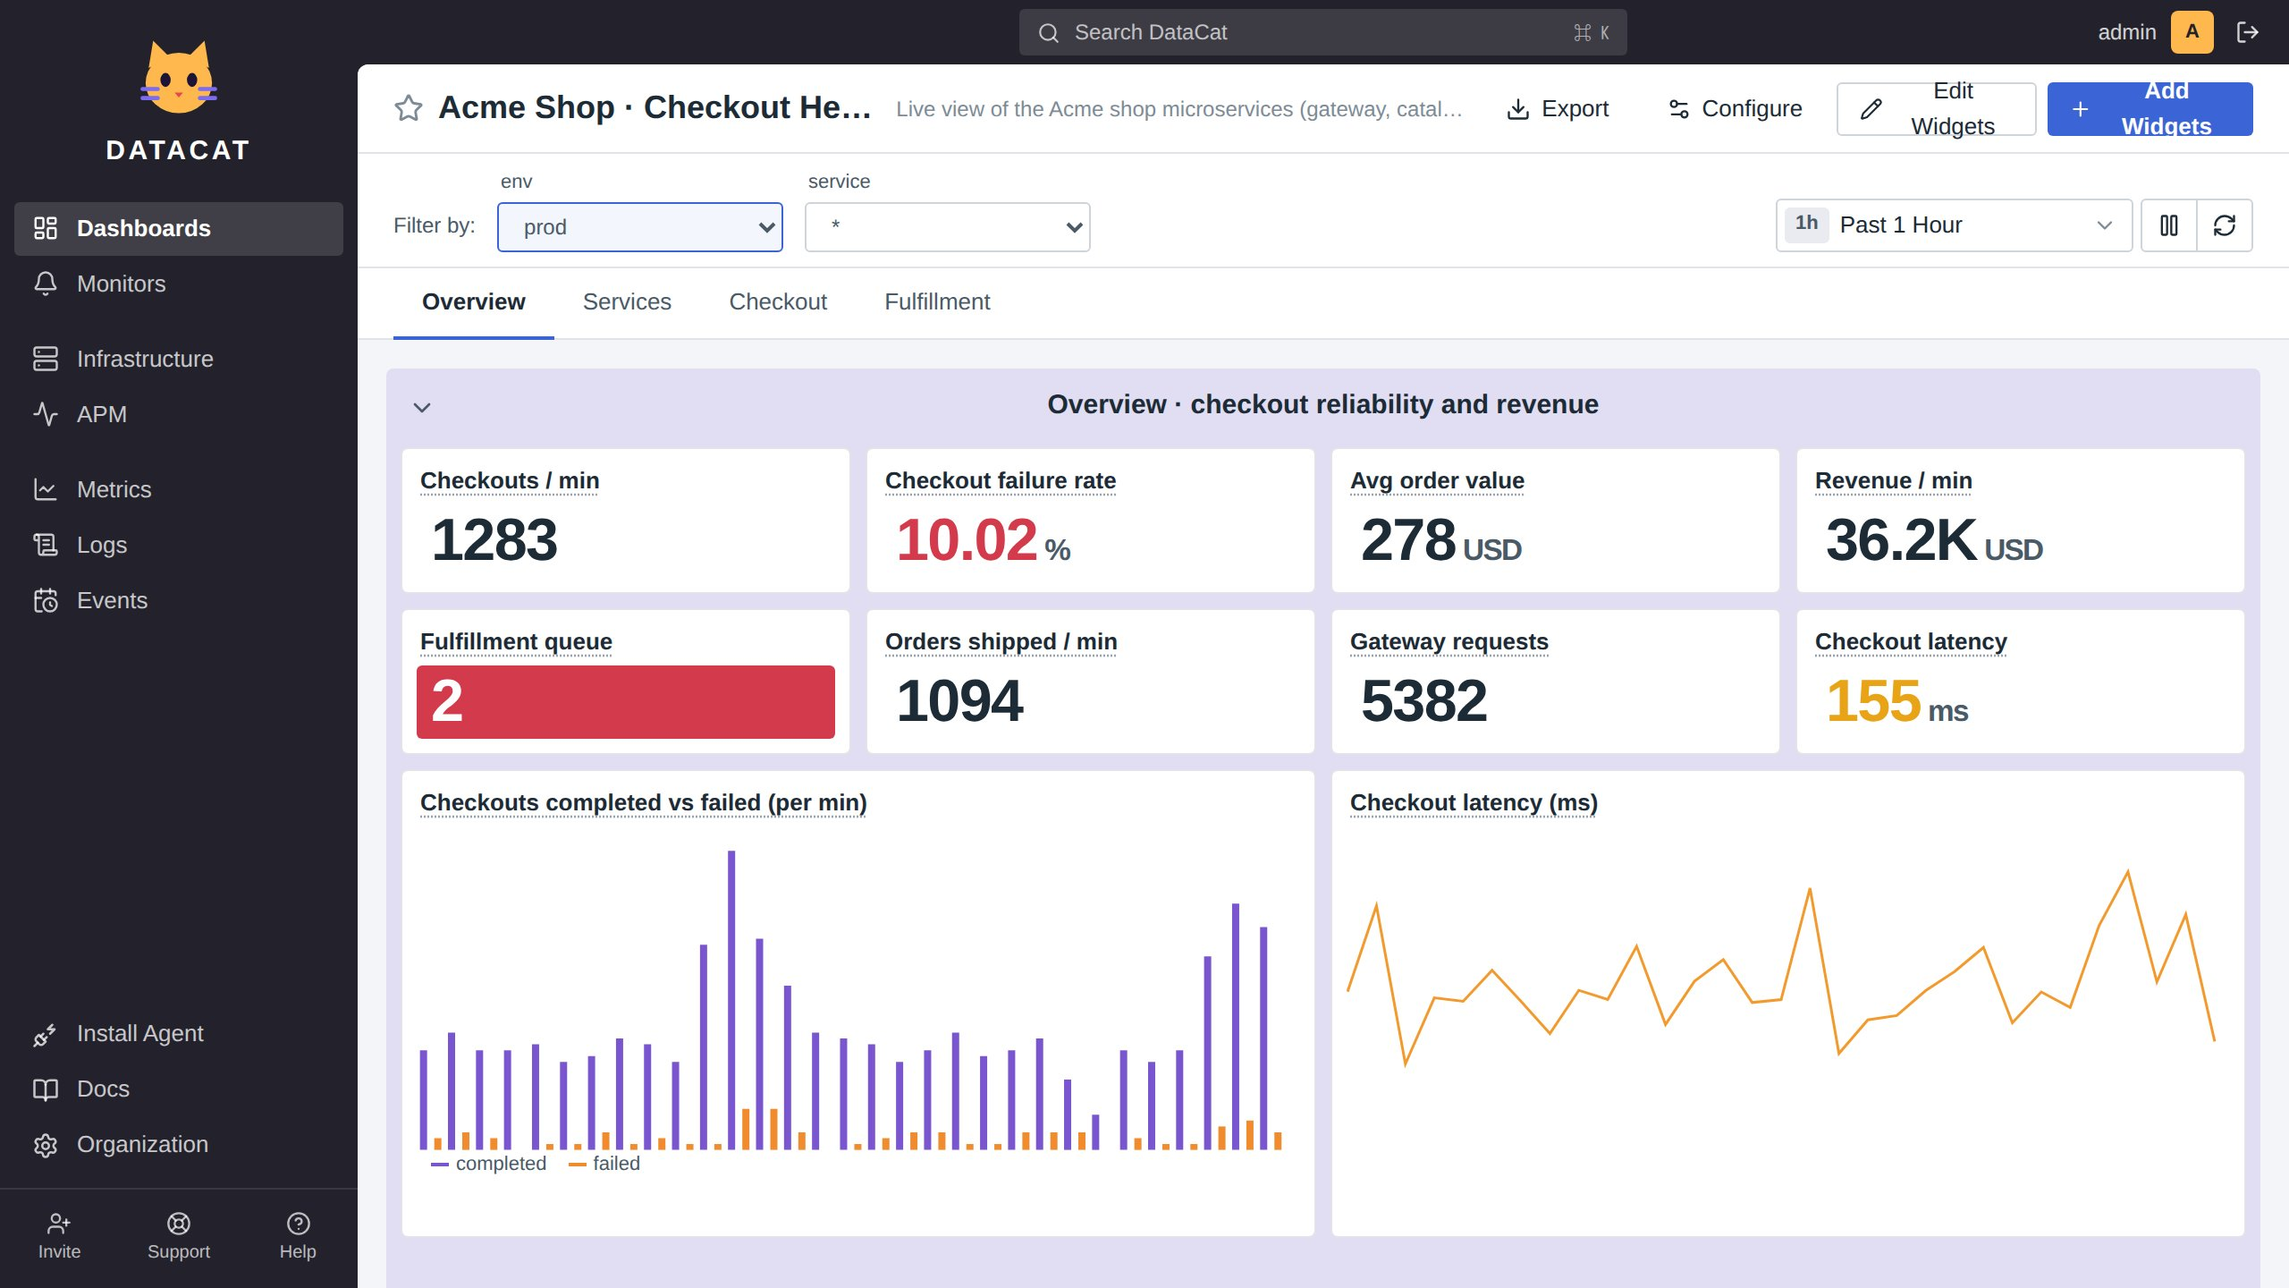
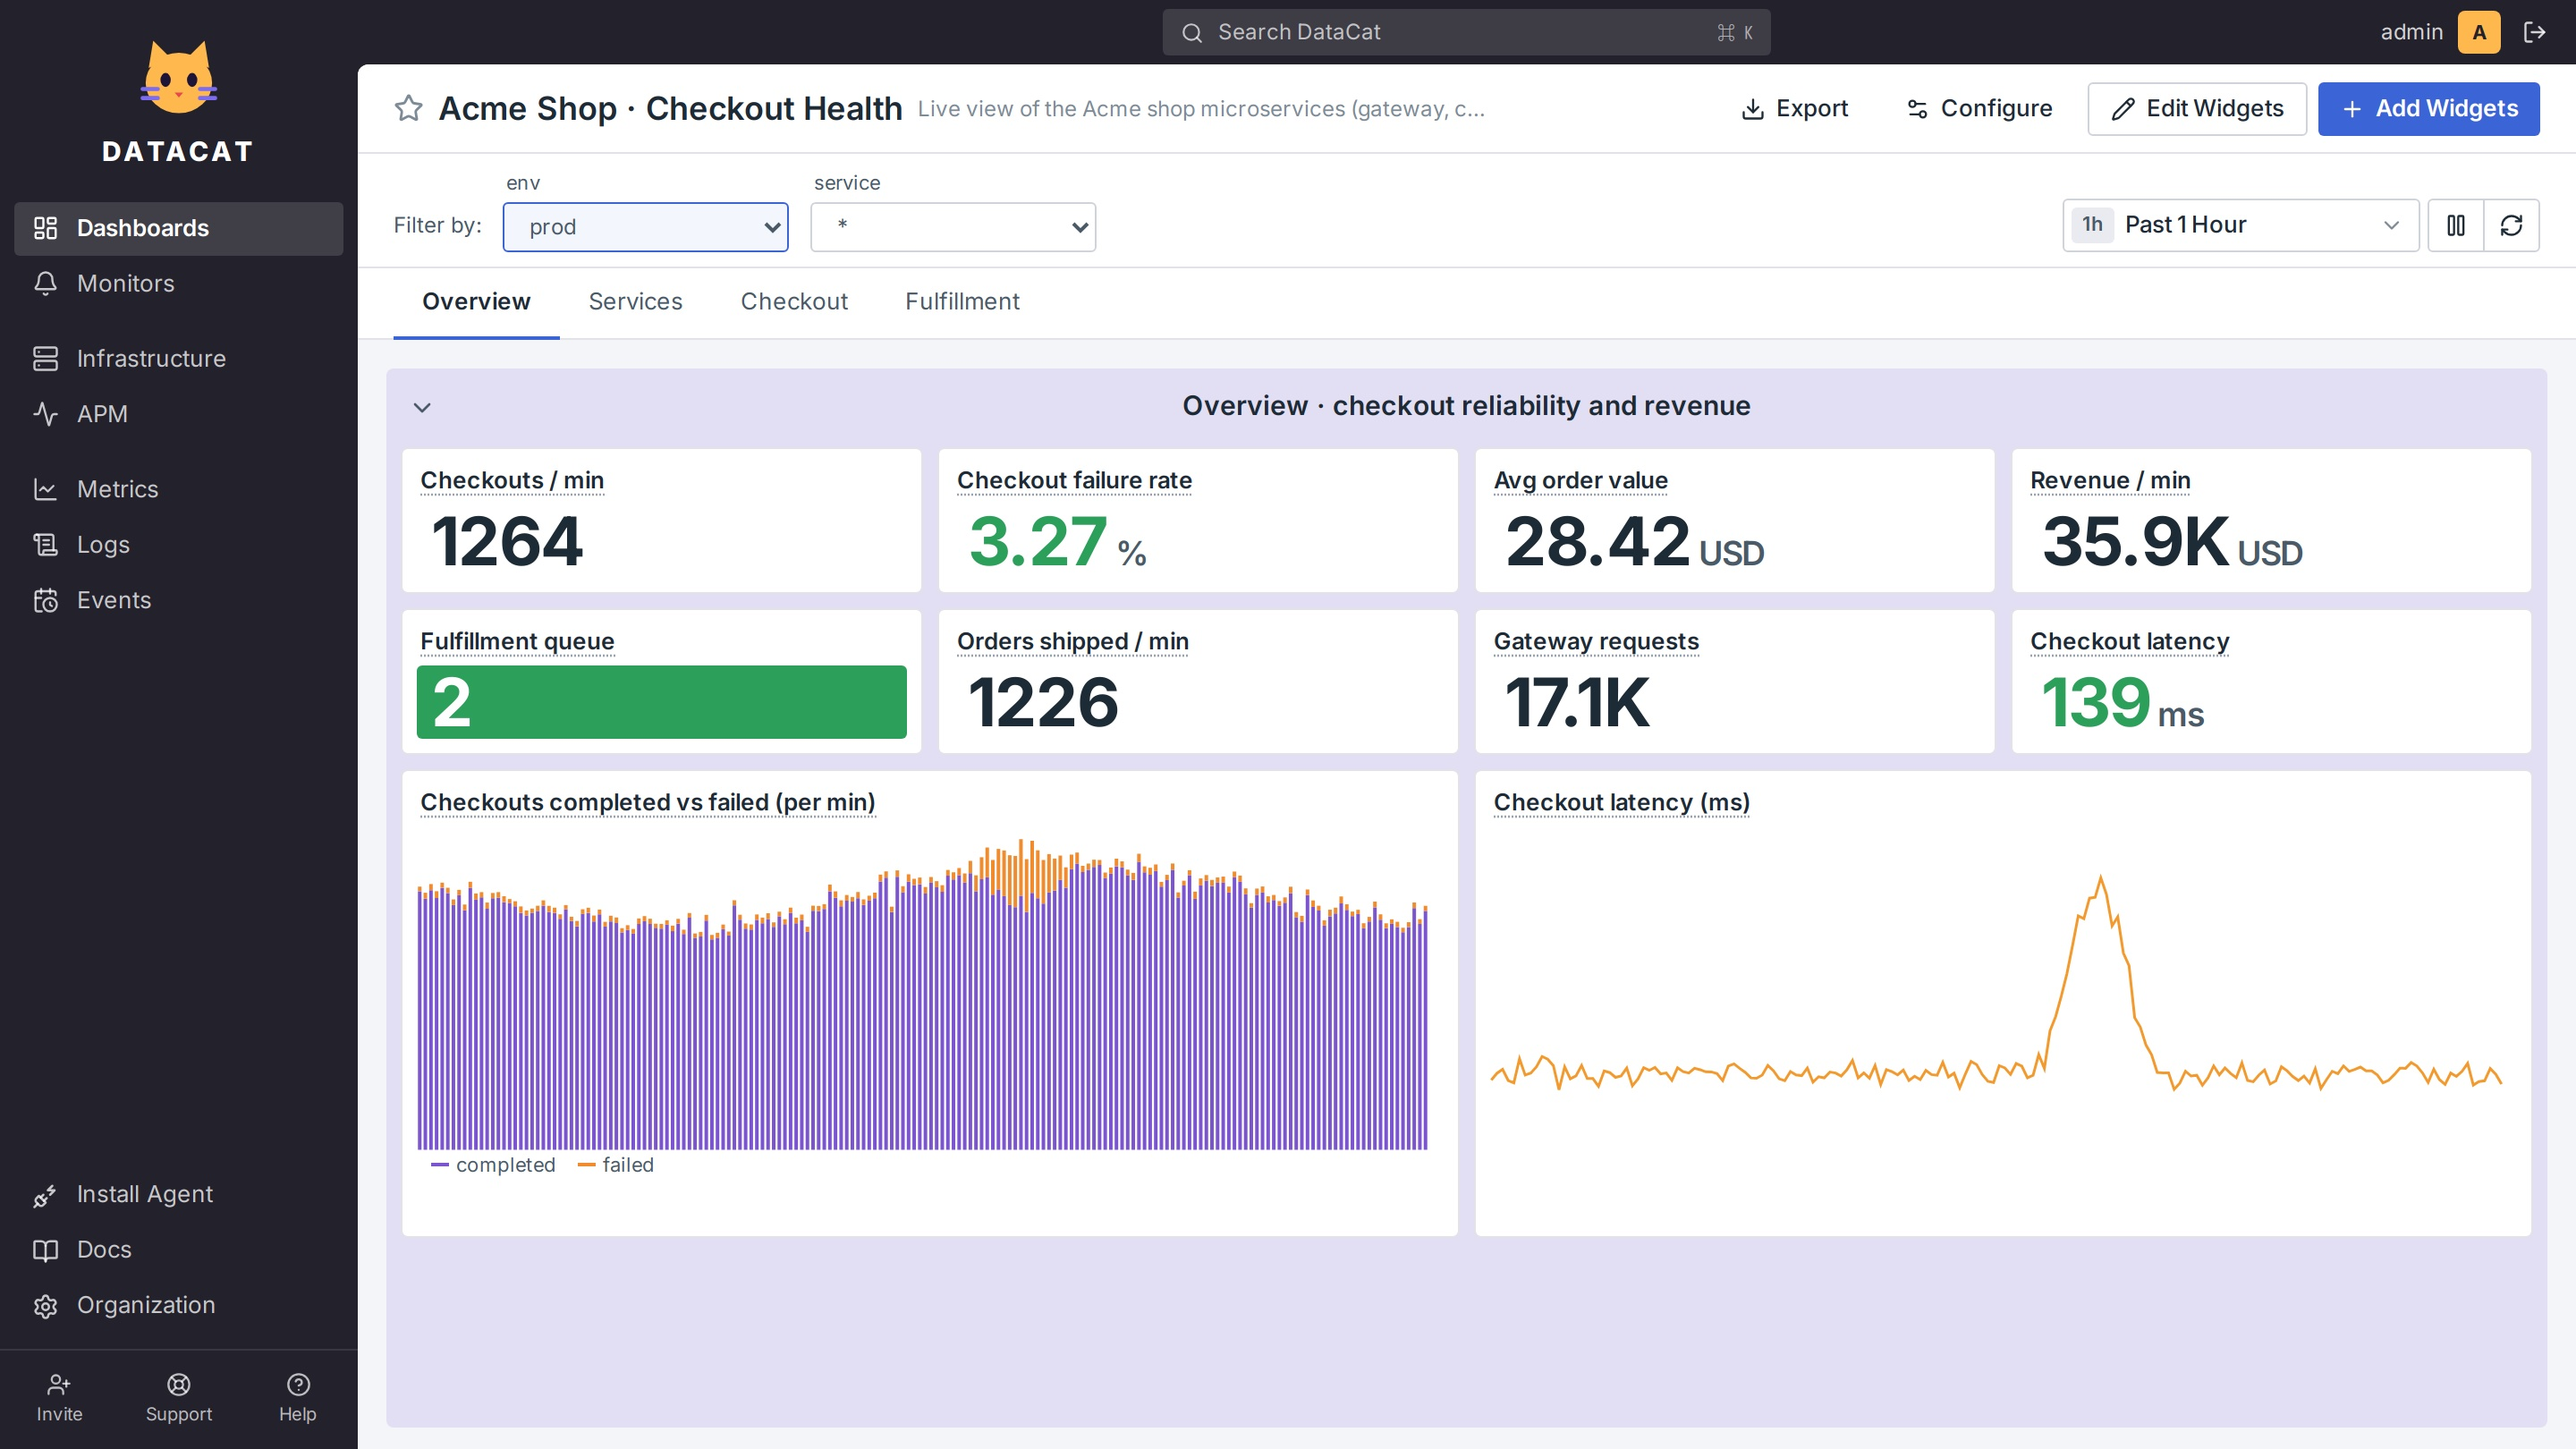
Fix dashboard toolbar wrapping and stack bar charts (#6)
Keep toolbar labels on one line, stack bar chart series, and refresh the dashboard screenshot in the README.

diff --git a/artifacts/web/src/pages/Dashboards.tsx b/artifacts/web/src/pages/Dashboards.tsx
@@ -694,21 +694,29 @@ export function DashboardView() {
   };
   return (
     <div className="min-h-full bg-canvas">
-      <div className="flex items-center gap-2 px-5 h-[50px] border-b border-line bg-white sticky top-0 z-20">
-        <button onClick={() => toggleFav(id)} title="Favorite" className="text-ink-3 hover:text-accent">
-          <Star size={17} className={isFav ? "fill-accent text-accent" : ""} />
-        </button>
-        {editing ? (
-          <input className="input text-[16px] font-semibold w-96" value={draft.title} onChange={(e) => setDraft({ ...draft, title: e.target.value })} />
-        ) : (
-          <h1 className="text-[18px] font-semibold truncate">{draft.title}</h1>
-        )}
-        {draft.description && !editing && (
-          <span className="text-ink-3 text-xs truncate max-w-[320px]" title={draft.description}>
-            {draft.description}
-          </span>
-        )}
-        <div className="ml-auto flex items-center gap-1.5">
+      <div className="flex flex-wrap items-center gap-2 px-5 py-2 min-h-[50px] border-b border-line bg-white sticky top-0 z-20">
+        <div className="flex flex-[1_1_18rem] min-w-0 items-center gap-2">
+          <button onClick={() => toggleFav(id)} title="Favorite" className="shrink-0 text-ink-3 hover:text-accent">
+            <Star size={17} className={isFav ? "fill-accent text-accent" : ""} />
+          </button>
+          {editing ? (
+            <input
+              className="input text-[16px] font-semibold min-w-0 w-96"
+              value={draft.title}
+              onChange={(e) => setDraft({ ...draft, title: e.target.value })}
+            />
+          ) : (
+            <h1 className="text-[18px] font-semibold truncate shrink-0 max-w-[calc(100%-25px)]" title={draft.title}>
+              {draft.title}
+            </h1>
+          )}
+          {draft.description && !editing && (
+            <span className="text-ink-3 text-xs truncate max-w-[320px]" title={draft.description}>
+              {draft.description}
+            </span>
+          )}
+        </div>
+        <div className="ml-auto flex max-w-full flex-wrap items-center justify-end gap-1.5 whitespace-nowrap">
           {editing ? (
             <>
               <button

diff --git a/artifacts/web/src/components/Chart.tsx b/artifacts/web/src/components/Chart.tsx
@@ -133,7 +133,7 @@ export function TimeseriesChart({
           <BarChart {...common}>
             {axes}
             {keys.map((k) => (
-              <Bar key={k.key} dataKey={k.key} fill={k.color} stackId={stacked ? "a" : undefined} isAnimationActive={false} />
+              <Bar key={k.key} dataKey={k.key} fill={k.color} stackId={stacked !== false ? "a" : undefined} isAnimationActive={false} />
             ))}
           </BarChart>
         ) : type === "area" ? (
